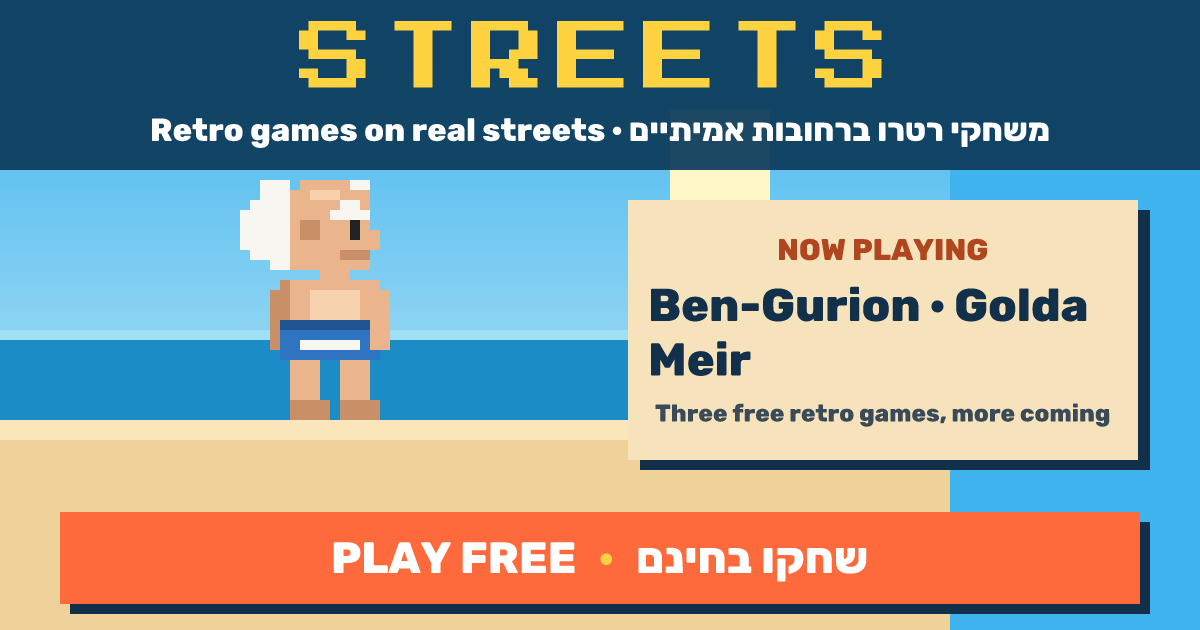
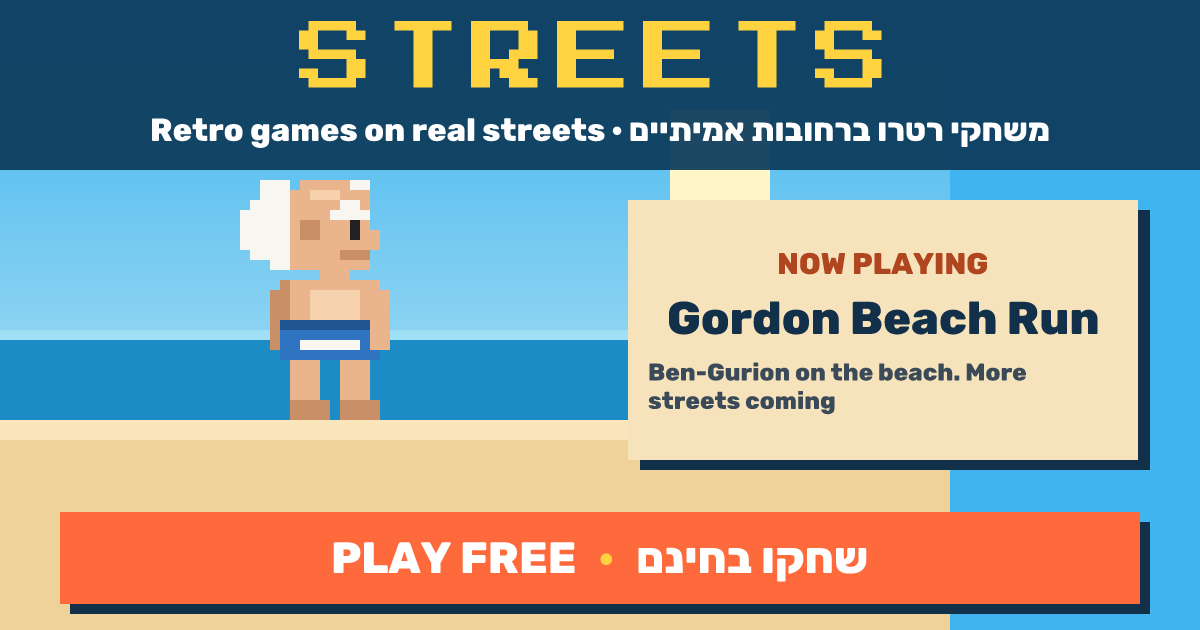
Streets: hide the two Golda games from the home page
Only Gordon Beach Run is listed now. The Golda games stay in the repo and
come back by un-commenting their cards in tools/streets.html.

Claude-Session: https://claude.ai/code/session_01R5fmqfPFKGh3o4SHUGRT4z

Changed region(s): [[0.5242, 0.3619, 0.925, 0.6937]]

diff --git a/index.html b/index.html
@@ -4,12 +4,12 @@
 <meta charset="utf-8">
 <meta name="viewport" content="width=device-width, initial-scale=1, viewport-fit=cover">
 <title>Streets · משחקי רטרו ברחובות אמיתיים</title>
-<meta name="description" content="Streets: free retro games set on real streets and beaches. Now playing: Gordon Beach Run, Golda's Kitchen and Golda's $50 Million.">
+<meta name="description" content="Streets: free retro games set on real streets and beaches. Now playing: Gordon Beach Run.">
 <meta name="theme-color" content="#0c3a5a">
 <meta property="og:type" content="website">
 <meta property="og:site_name" content="Streets">
 <meta property="og:title" content="Streets · retro games on real streets · משחקי רטרו ברחובות אמיתיים">
-<meta property="og:description" content="Now playing: Gordon Beach Run, Golda's Kitchen and Golda's $50 Million. Free retro games in your browser.">
+<meta property="og:description" content="Now playing: Gordon Beach Run. Free retro games in your browser.">
 <meta property="og:url" content="https://makondo-kri.github.io/Mako-Krikheli/">
 <meta property="og:image" content="https://makondo-kri.github.io/Mako-Krikheli/streets-og.png">
 <meta property="og:image:width" content="1200">
@@ -89,6 +89,7 @@ footer { text-align: center; font-size: 13px; color: #9fb8c8; }
     </div>
   </article>
 
+  <!-- Golda's Kitchen and Golda's $50 Million are hidden for now (their folders stay in the repo).
   <article class="sign">
     <img src="golda-kitchen/og-image.png" alt="Pixel-art Golda Meir with her handbag in Shuk HaCarmel" width="1200" height="630">
     <div class="body">
@@ -117,6 +118,7 @@ footer { text-align: center; font-size: 13px; color: #9fb8c8; }
     </div>
   </article>
 
+  -->
   <div class="soon"><b data-t="soonTitle">MORE STREETS SOON</b><span data-t="soon">New games on other streets are on the way.</span></div>
   <footer data-t="foot">Free to play in your phone's browser. No download.</footer>
 </main>

diff --git a/tools/streets.html b/tools/streets.html
@@ -4,12 +4,12 @@
 <meta charset="utf-8">
 <meta name="viewport" content="width=device-width, initial-scale=1, viewport-fit=cover">
 <title>Streets · משחקי רטרו ברחובות אמיתיים</title>
-<meta name="description" content="Streets: free retro games set on real streets and beaches. Now playing: Gordon Beach Run, Golda's Kitchen and Golda's $50 Million.">
+<meta name="description" content="Streets: free retro games set on real streets and beaches. Now playing: Gordon Beach Run.">
 <meta name="theme-color" content="#0c3a5a">
 <meta property="og:type" content="website">
 <meta property="og:site_name" content="Streets">
 <meta property="og:title" content="Streets · retro games on real streets · משחקי רטרו ברחובות אמיתיים">
-<meta property="og:description" content="Now playing: Gordon Beach Run, Golda's Kitchen and Golda's $50 Million. Free retro games in your browser.">
+<meta property="og:description" content="Now playing: Gordon Beach Run. Free retro games in your browser.">
 <meta property="og:url" content="{{ROOT_URL}}">
 <meta property="og:image" content="{{ROOT_URL}}streets-og.png">
 <meta property="og:image:width" content="1200">
@@ -89,6 +89,7 @@ footer { text-align: center; font-size: 13px; color: #9fb8c8; }
     </div>
   </article>
 
+  <!-- Golda's Kitchen and Golda's $50 Million are hidden for now (their folders stay in the repo).
   <article class="sign">
     <img src="golda-kitchen/og-image.png" alt="Pixel-art Golda Meir with her handbag in Shuk HaCarmel" width="1200" height="630">
     <div class="body">
@@ -117,6 +118,7 @@ footer { text-align: center; font-size: 13px; color: #9fb8c8; }
     </div>
   </article>
 
+  -->
   <div class="soon"><b data-t="soonTitle">MORE STREETS SOON</b><span data-t="soon">New games on other streets are on the way.</span></div>
   <footer data-t="foot">Free to play in your phone's browser. No download.</footer>
 </main>

diff --git a/api/_card.js b/api/_card.js
@@ -70,8 +70,8 @@ function poster({ art, mode, G }) {
     h("div", { position: "absolute", left: 640, top: streets ? 210 : 160, width: 510, height: 260, background: "#12304a", display: "flex" }, []),
     h("div", { position: "absolute", left: 628, top: streets ? 200 : 150, width: 510, height: 260, background: "#f6e3bb", display: "flex", flexDirection: "column", alignItems: "center", justifyContent: "center", padding: 20 }, [
       h("div", { fontSize: 30, color: "#b0461f", fontWeight: 800 }, streets ? "NOW PLAYING" : G.place),
-      h("div", { fontSize: streets ? 46 : G.he.length > 14 ? 44 : 54, color: "#12304a", fontWeight: 800, marginTop: 10 }, streets ? "Ben-Gurion · Golda Meir" : visual(G.he)),
-      h("div", { fontSize: 24, color: "#3b4a58", fontWeight: 800, marginTop: 12 }, streets ? "Three free retro games, more coming" : G.line),
+      h("div", { fontSize: streets ? 46 : G.he.length > 14 ? 44 : 54, color: "#12304a", fontWeight: 800, marginTop: 10 }, streets ? "Gordon Beach Run" : visual(G.he)),
+      h("div", { fontSize: 24, color: "#3b4a58", fontWeight: 800, marginTop: 12 }, streets ? "Ben-Gurion on the beach. More streets coming" : G.line),
     ]),
     h("div", { position: "absolute", left: 70, top: 522, width: 1080, height: 92, background: "#12304a", display: "flex" }, []),
     h("div", { position: "absolute", left: 60, top: 512, width: 1080, height: 92, background: "#ff6a3d", display: "flex", alignItems: "center", justifyContent: "center", color: "#ffffff", fontSize: 44, fontWeight: 800 }, [

diff --git a/README.md b/README.md
@@ -2,7 +2,10 @@
 
 Free retro games set on real streets and beaches, played in the phone's browser.
 
-**Now playing**
+**Now playing:** Gordon Beach Run. The two Golda games are hidden from the home page for now
+(their folders stay in the repo; to bring one back, un-comment its card in `tools/streets.html`).
+
+**Games in the repo**
 
 - **Gordon Beach Run · ריצה בחוף גורדון.** Tel Aviv, 1957: help Ben-Gurion race
   from Gordon Beach to Frishman Beach.
